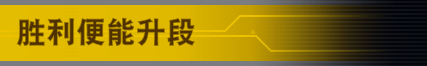
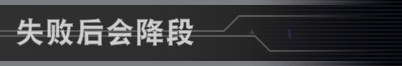
1.6.0

diff --git a/ui/about_dialog.py b/ui/about_dialog.py
@@ -39,7 +39,7 @@ from src.config import get_project_root
 # 程序元数据 — 修改版本号、作者等请改这里
 # =============================================================================
 
-VERSION = "1.5.4"       # 当前版本号，发版前更新
+VERSION = "1.6.0"       # 当前版本号，发版前更新
 AUTHOR = "learbox"       # 作者名
 LICENSE = "MIT"          # 开源协议
 REPO_URL = "https://github.com/learbox/mdstats_py"  # 项目仓库，留空则不显示链接

diff --git a/docs/README_release.md b/docs/README_release.md
@@ -1,4 +1,4 @@
-# MD Stats v1.5.4
+# MD Stats v1.6.0
 
 基于图像识别的 **Master Duel 对局自动统计工具**。
 

diff --git a/docs/RELEASE.md b/docs/RELEASE.md
@@ -54,7 +54,7 @@ git push origin main --tags
 git log v上一版本..v新版本 --oneline
 ```
 
-按以下模板整理：
+按以下 Markdown 模板整理（直接粘贴到 GitHub Release 输入框，支持 Markdown 渲染）：
 
 ```
 ## 新功能